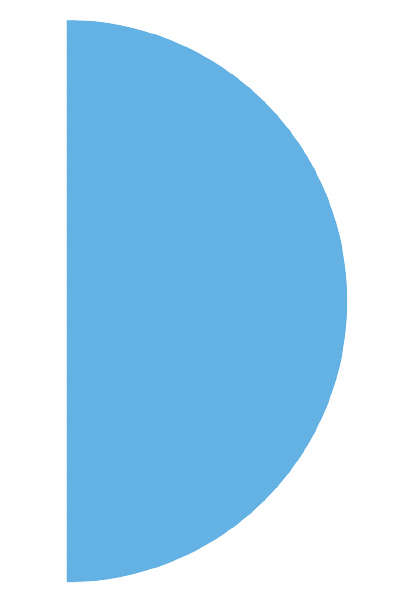
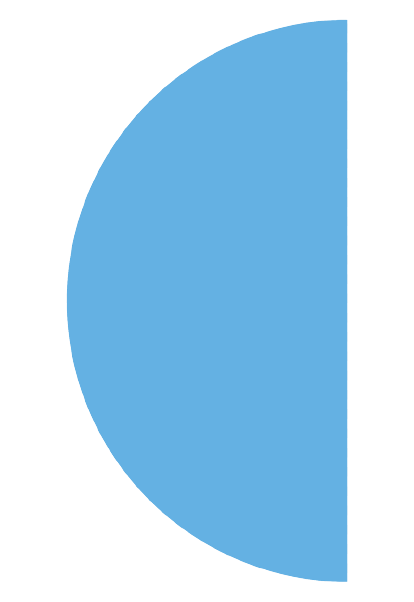
dream added

Changed region(s): [[0.1449, 0.5083, 0.8406, 0.9867], [0.1449, 0.0299, 0.8406, 0.4784]]

diff --git a/index.html b/index.html
@@ -27,6 +27,21 @@
             <img src="images/New_Project-removebg-preview.png" alt="">
         </div>
     </section>
+
+    <section class="dream-big">
+        <div class="half-width">
+            <img src="images/New_Project-removebg-preview.png" alt="">
+        </div>
+        <div class="half-width">
+            <h1>Dream Big</h1>
+            <h2>Become a web developer</h2>
+            <p>You might saw me jumping,climbing buildings,and stopping trains.But nobody pays me a dime for that
+                work.That's why i am learning and mastering web developement.I will not stop until i become the Web
+                Develpement Hero.</p>
+            <a class="link-button" target="_blank" href="">Download Resume</a>
+        </div>
+
+    </section>
 </body>
 
 </html>

diff --git a/style.css b/style.css
@@ -13,6 +13,7 @@ h1 {
 
 section {
     display: flex;
+    margin-bottom: 150px;
 }
 
 .half-width {
@@ -36,4 +37,10 @@ section {
 .top-banner {
     background-image: url(images/header_bg.png);
     background-repeat: no-repeat;
+}
+
+.dream-big {
+    background-image: url(images/26-266063_blue-half-circle-transparent-hd-png-download-removebg-preview.png);
+    background-repeat: no-repeat;
+    background-position: right;
 }
